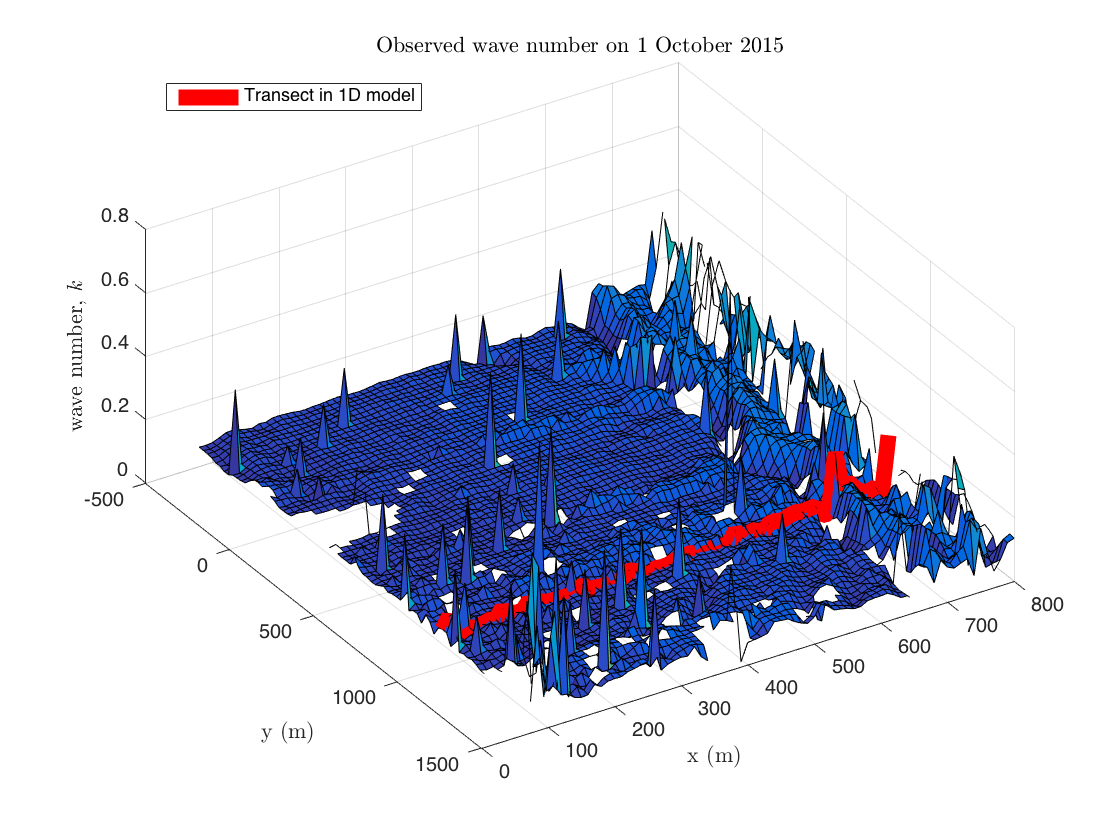
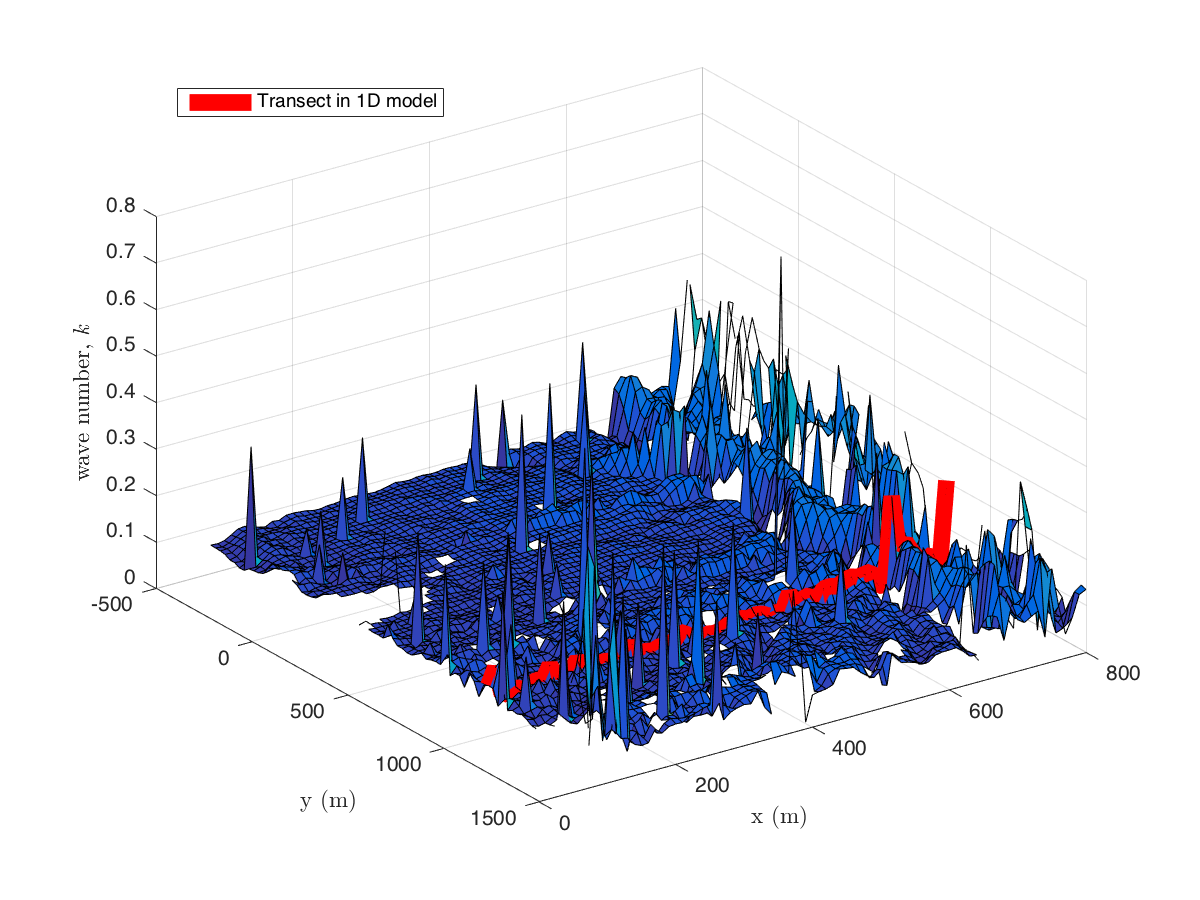
Removing titles for the purpose of the report. Beautifying plot axes, adding more save figure statements

diff --git a/Data/plot1DtrueBathy.m b/Data/plot1DtrueBathy.m
@@ -18,6 +18,7 @@ function plot1DtrueBathy
     [hgrid,xgrid] = interp_h(h,x,10);
     
     figure
+    clf
     subplot(1,2,1)
     plot(x,z,'r','LineWidth',2);
     hold on
@@ -25,10 +26,14 @@ function plot1DtrueBathy
     ylim([-12.844,3.156]);
     xlim([0,1500]);
     set(gca,'Xdir','reverse');
-    legend('Survey Data','Survey Water Level');
-    xlabel('x Position (meters)');
-    ylabel('Elevation (meters)');
-    title('Elevation');
+    ll=legend('Survey Data','Survey Water Level');
+    xx=xlabel('x Position (meters)');
+    yy=ylabel('Elevation (meters)');
+    tt=title('Elevation');
+    set(ll,'Interpreter','Latex');
+    set(xx,'Interpreter','Latex');
+    set(yy,'Interpreter','Latex');
+    set(tt,'Interpreter','Latex');
     
     subplot(1,2,2)
     plot(xgrid,hgrid,'--','LineWidth',2);
@@ -38,10 +43,15 @@ function plot1DtrueBathy
     xlim([0,1500]);
     set(gca,'Xdir','reverse');
     set(gca,'Ydir','reverse');
-    legend('Interpolated/Extrapolated Data','Survey Data');
-    xlabel('x Position (meters)');
-    ylabel('Depth (meters)');
-    title('Depth');
+    l=legend('Interpolated/Extrapolated Data','Measured Data');
+    x=xlabel('x Position (meters)');
+    y=ylabel('Depth (meters)');
+    tit=title('Depth');
+    set(l,'Interpreter','Latex');
+    set(x,'Interpreter','Latex');
+    set(y,'Interpreter','Latex');
+    set(tit,'Interpreter','Latex');
+    print('figs/trueBath1D','-dpng')
     
     
 end

diff --git a/Data/plot2DBath.m b/Data/plot2DBath.m
@@ -35,8 +35,8 @@ A beautiful plot of 2D bathymetry
     startind = find(date == start,1);
 
     %2D bathymetry data in lat/lon
-    %figure
-    %clf
+    figure
+    clf
     for i=startind:length(date)
         hold on;
         grid on;
@@ -46,8 +46,8 @@ A beautiful plot of 2D bathymetry
         ylabel('longitude (\circ)')
         zlabel('elevation (m)')
         datestr=num2str(date(i));
-        titstr = sprintf('True bathymetry for %s October 2015',datestr(end-1:end));
-        title(titstr)
+        %titstr = sprintf('True bathymetry for %s October 2015',datestr(end-1:end));
+        %title(titstr)
         view(55, 35)
     end   
  

diff --git a/Data/plot2Dk.m b/Data/plot2Dk.m
@@ -21,11 +21,11 @@ Plot 2D k for the first measurement on October 1
     y=xlabel('y (m)');
     x=ylabel('x (m)');
     z=zlabel('wave number, \textit{k}');
-    tit=title('Observed wave number on 1 October 2015');
+    %tit=title('Observed wave number on 1 October 2015');
     set(x,'Interpreter','Latex');
     set(y,'Interpreter','Latex');
     set(z,'Interpreter','Latex');
-    set(tit,'Interpreter','Latex');
+    %set(tit,'Interpreter','Latex');
     
     
     %plot profile of 1D model

diff --git a/Data/plot1DkObs.m b/Data/plot1DkObs.m
@@ -25,8 +25,8 @@ plot1DkObs
     xlim([0 max(xm)-min(xm)])
     l=legend('mean $\textit{k} \pm 1\sigma$');
     set(l,'Interpreter','Latex');
-    t=title('wave number along y=950m transect');
-    set(t,'Interpreter','Latex');
+    %t=title('wave number along y=950m transect');
+    %set(t,'Interpreter','Latex');
     set (gca,'Xdir','reverse')
     shorestr = 'Shoreward';
     nshorestr = sprintf('Away from\nshoreline');
